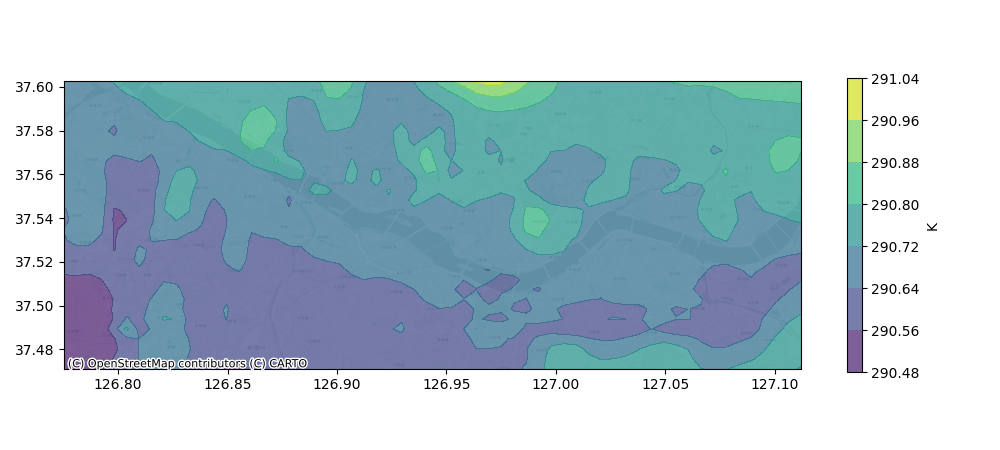
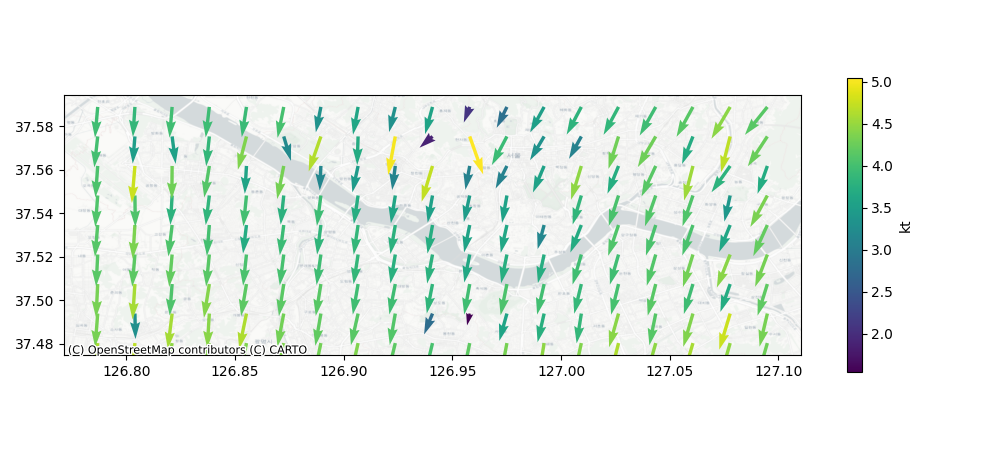
main

diff --git a/webapp/main.py b/webapp/main.py
@@ -134,8 +134,8 @@ class Streamlines(object):
         Compute a streamline extending in both directions from the given point.
         """
 
-        sx, sy = self._makeHalfStreamline(x0, y0, 1) # forwards
-        rx, ry = self._makeHalfStreamline(x0, y0, -1) # backwards
+        sx, sy = self._makeHalfStreamline(x0, y0, -1) # forwards
+        rx, ry = self._makeHalfStreamline(x0, y0, 1) # backwards
 
         rx.reverse()
         ry.reverse()
@@ -208,9 +208,11 @@ def plotwind(ncdata,fig,ax,sord):
     temp2 = ncdata.variables['v'][hgt_idx,:,:]
     temp3 = ncdata.variables['v'][hgt_idx,:,:]
     unit = ncdata.variables['u'].units
+    filtu = np.where(np.isnan(temp1),0,temp1)
+    filtv = np.where(np.isnan(temp2),0,temp2)
     windspd = np.sqrt(temp1**2+temp2**2+temp3**2)
     if (sord=="0"):
-        plt.contourf(X[0,:],Y[:,0],temp1,temp2)
+        plt.quiver(X[0,2:-3:3],Y[2:-3:3,0],filtu[2:-3:3,2:-3:3],filtv[2:-3:3,2:-3:3],windspd[2:-3:3,2:-3:3])
         c = plt.colorbar(shrink=0.7)
         c.set_label(unit)
     else:
